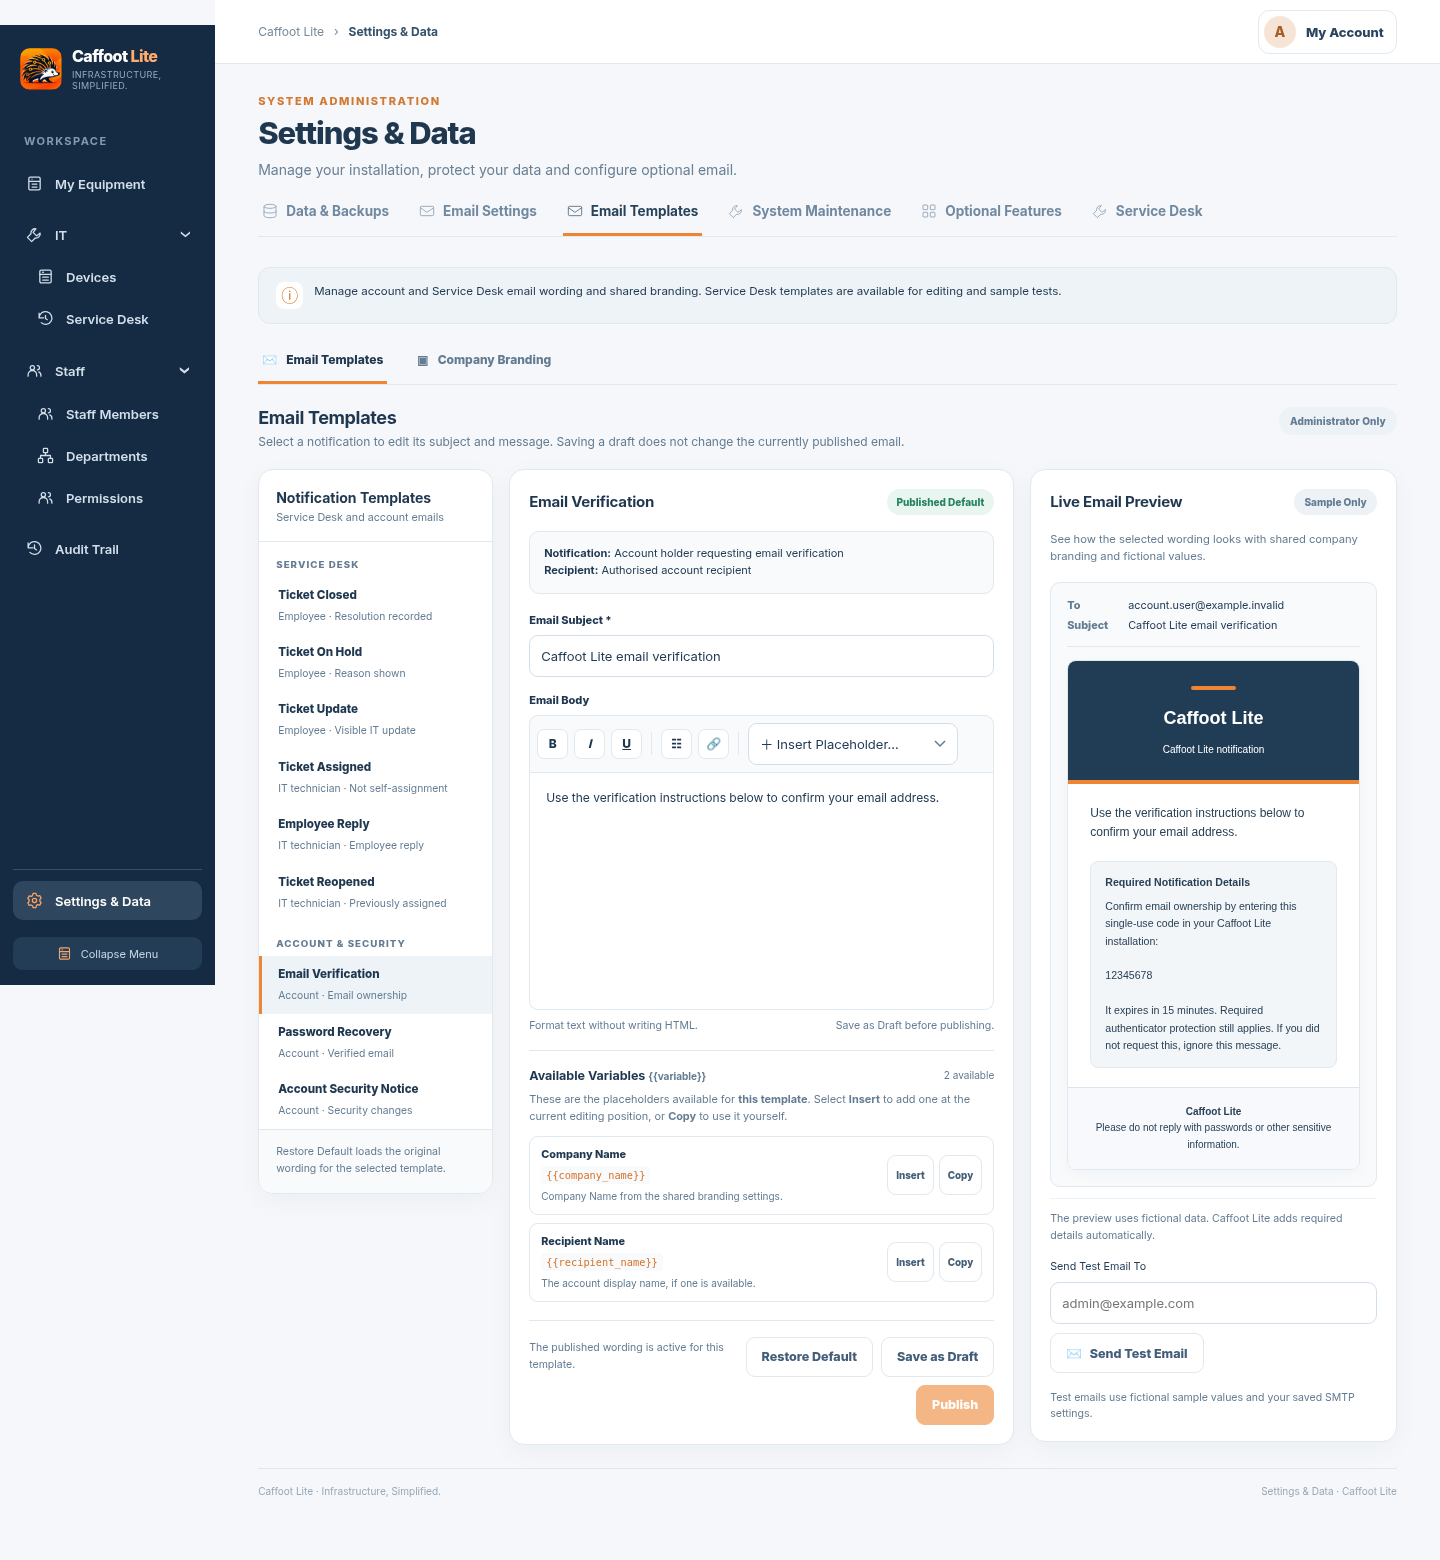
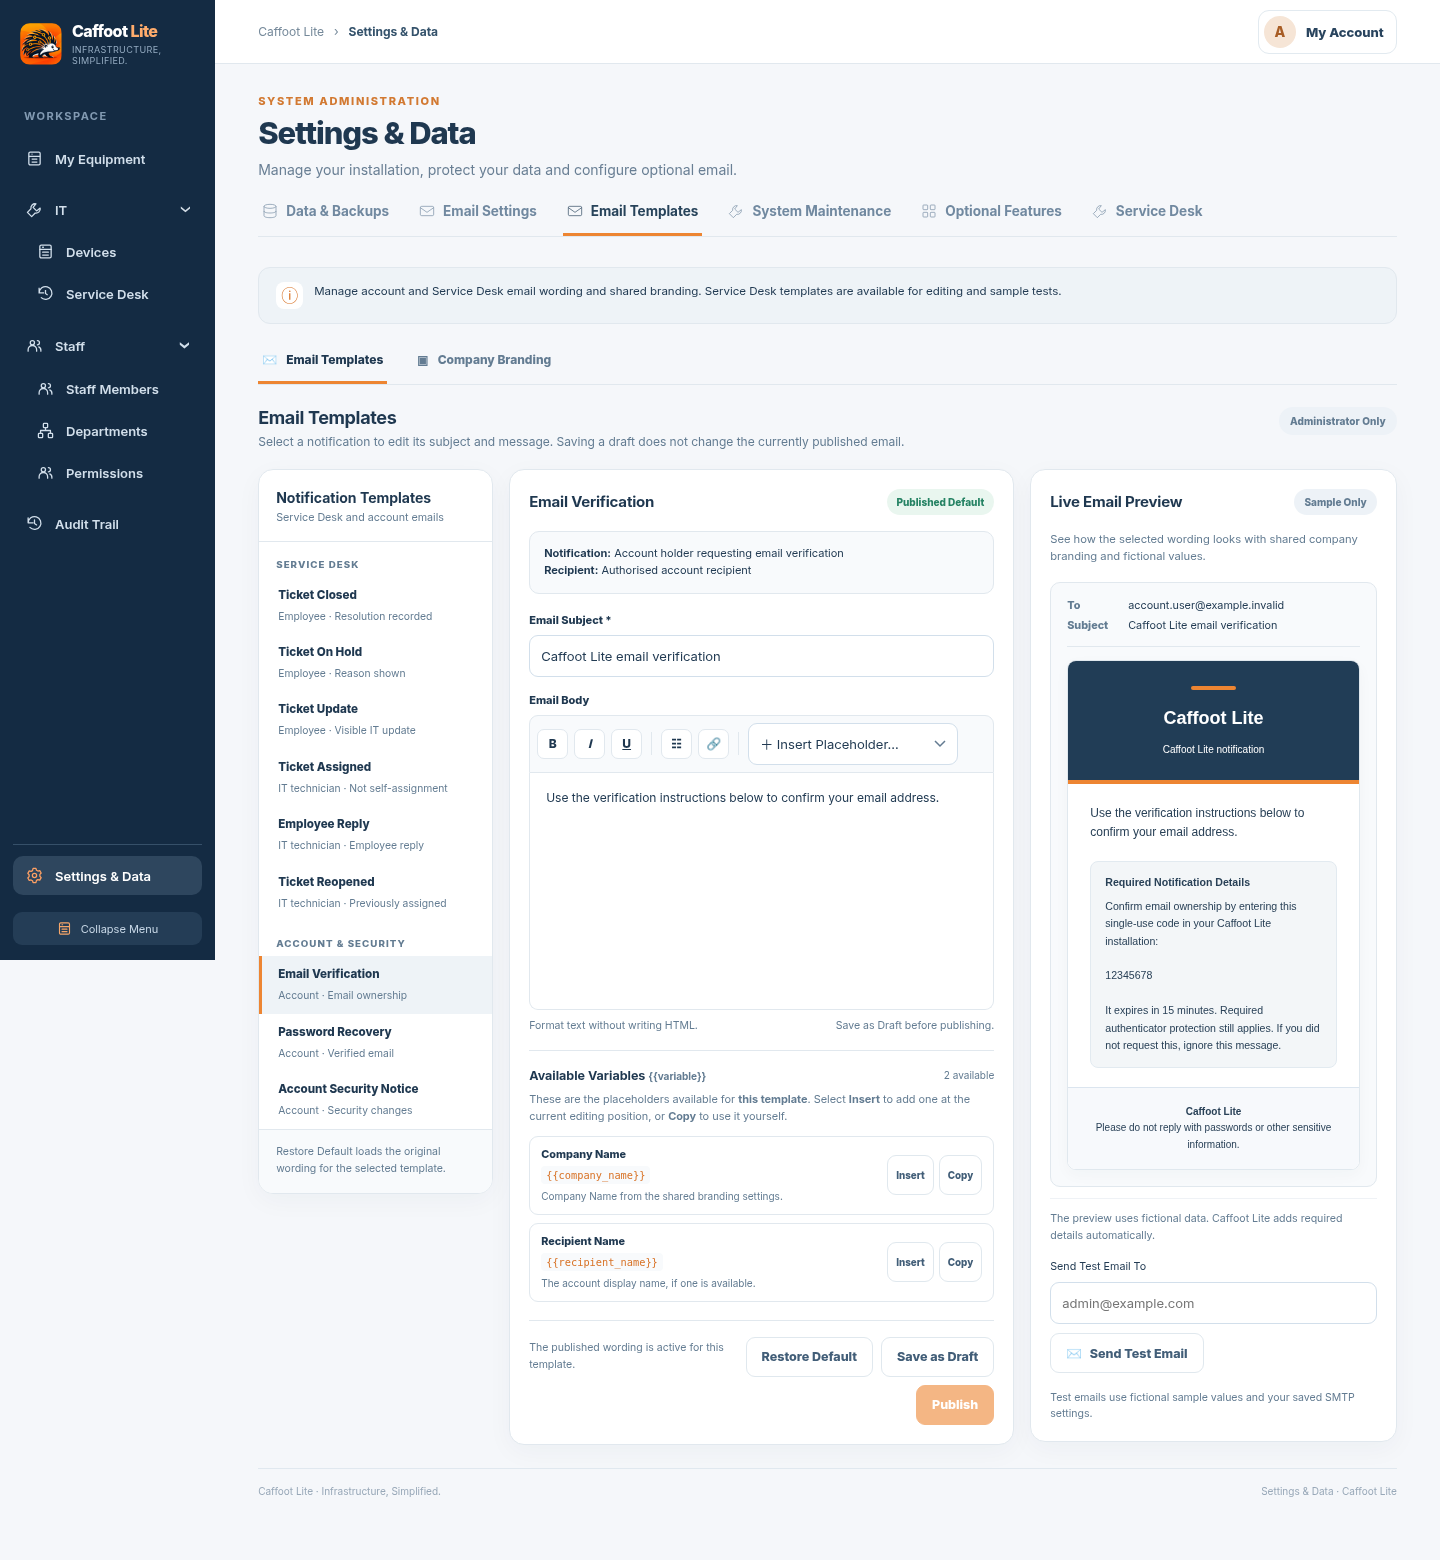
Correct email screenshot capture and Settings tab regression

Changed region(s): [[0.0, 0.5231, 0.1562, 0.6462], [0.0, 0.0, 0.1562, 0.1231], [0.0312, 0.1538, 0.125, 0.3385]]

diff --git a/docs/development-handovers/evidence/email-templates-branding/README.md b/docs/development-handovers/evidence/email-templates-branding/README.md
@@ -2,6 +2,12 @@
 
 Captured on 23 November 2026 from the integrated draft v2.2 application at [`4a684152cb4a178309728ef29efcc18a5fdeac59`](https://github.com/Caffoot/Caffoot-Lite/commit/4a684152cb4a178309728ef29efcc18a5fdeac59). The starting integration commit was [`7b651af631b18e68da4160d1e29ef1a957c8f7cc`](https://github.com/Caffoot/Caffoot-Lite/commit/7b651af631b18e68da4160d1e29ef1a957c8f7cc). Playwright 1.56.1 drove headless Chromium 155.0.8059.79 over local HTTPS against a disposable SQLite schema 28 installation. Desktop and mobile used 1440 × 960 and 390 × 844 CSS-pixel viewports. The PNGs show the full page at each width, including content reached by scrolling. Accounts, ticket examples, company details and the Maplebrook logo are fictional. [Browser test and fixture](../../../../tests/email-templates-interface.cjs)
 
+## Desktop Capture Correction
+
+The six desktop images for the saved draft, Ticket On Hold variables, all three account templates and the uploaded logo were recaptured on 23 November 2026. The application source was the same as in [the previous PR head](https://github.com/Caffoot/Caffoot-Lite/commit/25c4ad169ab52361bc0cf25e23a582873756f491). The browser, viewport, fixture and local HTTPS setup described above were used again. The other eight images retain their original provenance. [Owner review](https://github.com/Caffoot/Caffoot-Lite/pull/441#issuecomment-7108360524)
+
+In the live 1440 × 960 Chromium viewport, the sidebar began at the top and the template list, editor and preview all began 469 px below it. At a 650 px scroll offset, the sidebar, list and preview sat at their intended viewport offsets of 0, 17 and 16 px. Scrolling back to the top restored their starting positions. The old capture could begin during the smooth scroll back to the top, which displaced sticky panels in the full-page image. The capture helper now scrolls immediately and waits for the window and document scroll offsets to reach zero before taking the screenshot. [Browser capture helper](../../../../tests/email-templates-interface.cjs)
+
 ## Integrated Screenshots
 
 | Screen | Desktop light | Desktop dark | Mobile light | Mobile dark |
